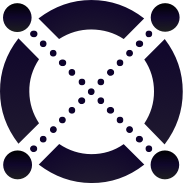
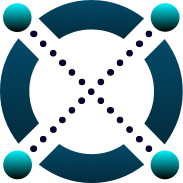
:art: nicer color splash, also sidebar/menu fix

diff --git a/src/pages/index.module.css b/src/pages/index.module.css
@@ -9,9 +9,9 @@
   position: relative;
   overflow: hidden;
   
-  background: linear-gradient(-45deg, #ee7752, #e73c7e, #23a6d5, #23d5ab);
+  background: linear-gradient(-14deg, #B1F223, #01DFFF, #3F2731, #964273, #ffff00);
   background-size: 400% 400%;
-  animation: gradient 15s ease infinite;
+  animation: gradient 23s ease infinite;
 /*  background: rgb(1,101,173);
   background: -moz-radial-gradient(circle, rgba(1,101,173,1) 19%, rgba(55,51,161,1) 65%, rgba(23,40,171,1) 100%);
   background: -webkit-radial-gradient(circle, rgba(1,101,173,1) 19%, rgba(55,51,161,1) 65%, rgba(23,40,171,1) 100%);

diff --git a/src/pages/index.js b/src/pages/index.js
@@ -29,7 +29,7 @@ export default function Home() {
   const {siteConfig} = useDocusaurusContext();
   return (
     <Layout
-      title={`Hello from ${siteConfig.title}`}
+      title={`NFA ${siteConfig.title}`}
       description="Description will go into a meta tag in <head />">
       <HomepageHeader />
       <main>

diff --git a/docusaurus.config.js b/docusaurus.config.js
@@ -53,7 +53,7 @@ const config = {
             type: 'doc',
             docId: 'intro',
             position: 'left',
-            label: 'Tutorial',
+            label: 'Tutorials',
           },
           {to: '/blog', label: 'Blog', position: 'left'},
           {
